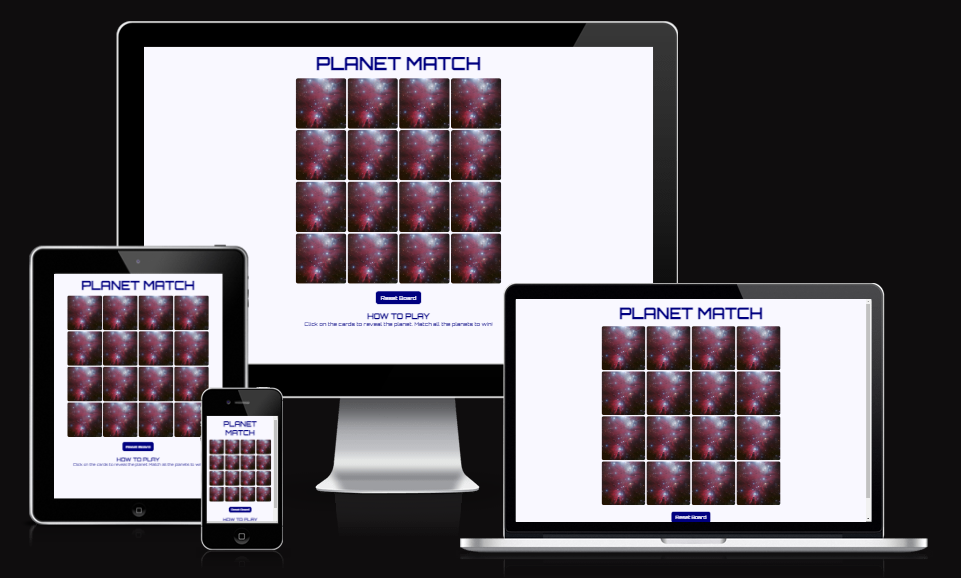
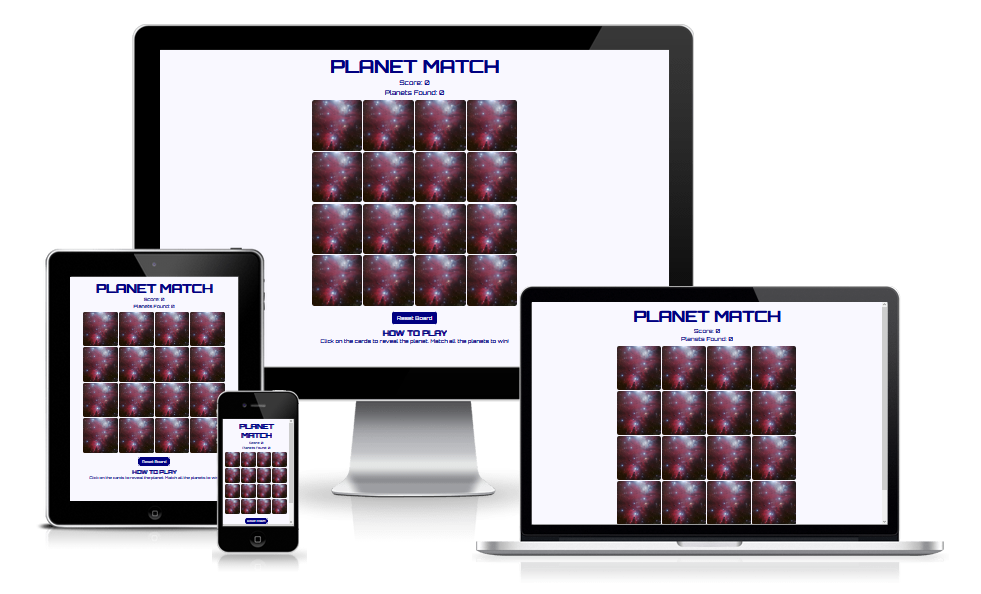
add content to readme.md

diff --git a/index.html b/index.html
@@ -21,7 +21,7 @@
 
     <!-- game statistics-->
     <div class="stats">Score: <span id="score">0</span></div>
-    <div class="stats">Planets Found: <span id="matched">0</span></div>
+    <div class="stats">Planets Found: <span id="matched">0</span> / 8</div>
     <!-- game play area-->
     <div class="grid"></div>
     <div id="result"></div>

diff --git a/README.md b/README.md
@@ -2,7 +2,7 @@
 
 [View the live project here](https://porsil.github.io/planet-match/index.html)
 
-This is the website for Planet Match. A website for playing a matching planet card game. The website is responsive allowing the game to be played on a range of devices.
+This is the website for Planet Match. A website for playing a matching planet card game. The game is primarily aimed at kids, but can be enjoyed by all ages. The website is responsive allowing the game to be played on a range of devices.
 
 ![Website images](assets/read-me-docs/responsive.png)
 
@@ -34,6 +34,12 @@ This is the website for Planet Match. A website for playing a matching planet ca
     -   This addresses visitor goal 1.
 
 ![game name](assets/read-me-docs/title.png)
+
+-   **Statistics**
+
+    -   At the top of the game area, the statistics of the current game are displayed. This shows the user the number of attemps made, and how many planets have been matched out of the 8 possible matches.
+
+![stats](assets/read-me-docs/stats.png)
 
 -   **Game Area**
 
